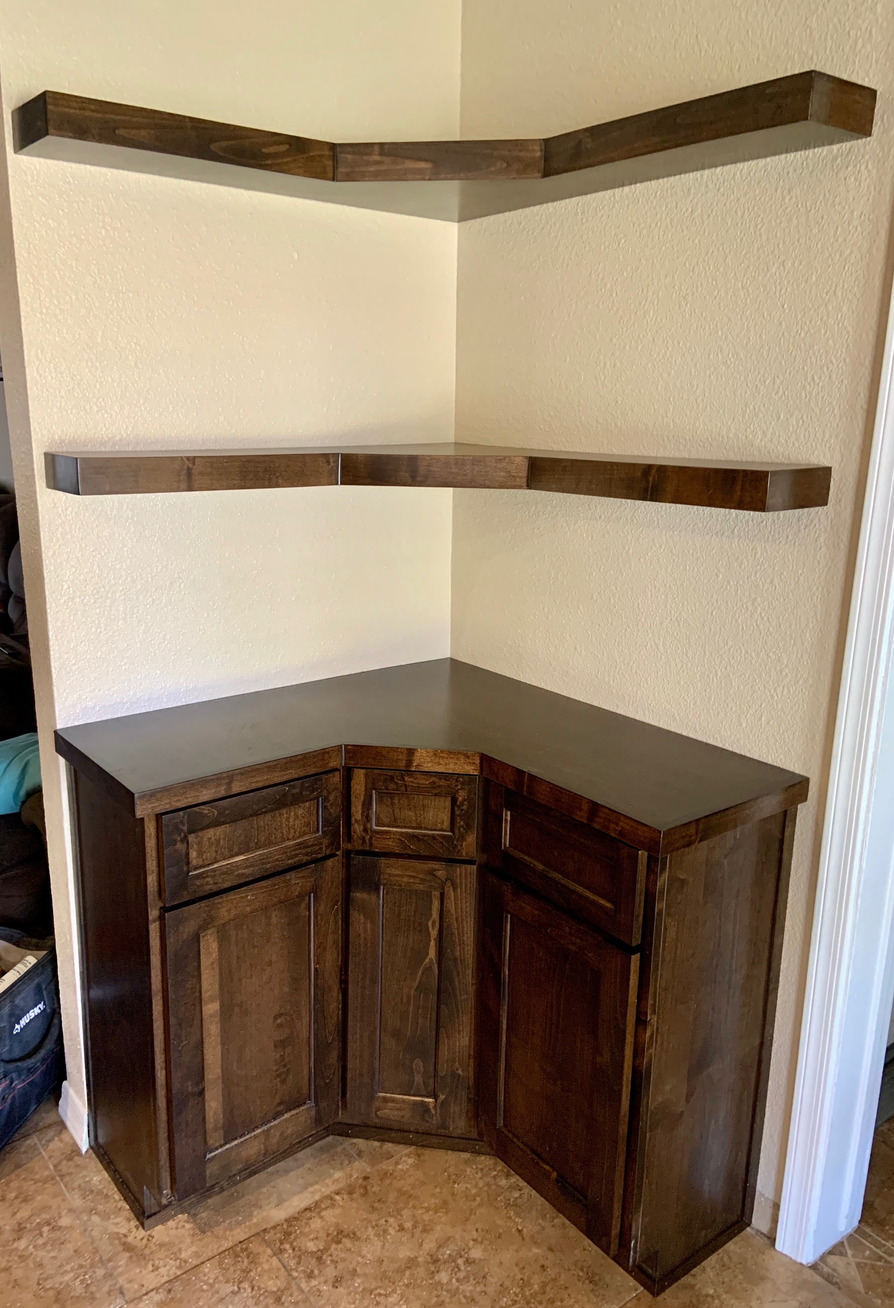
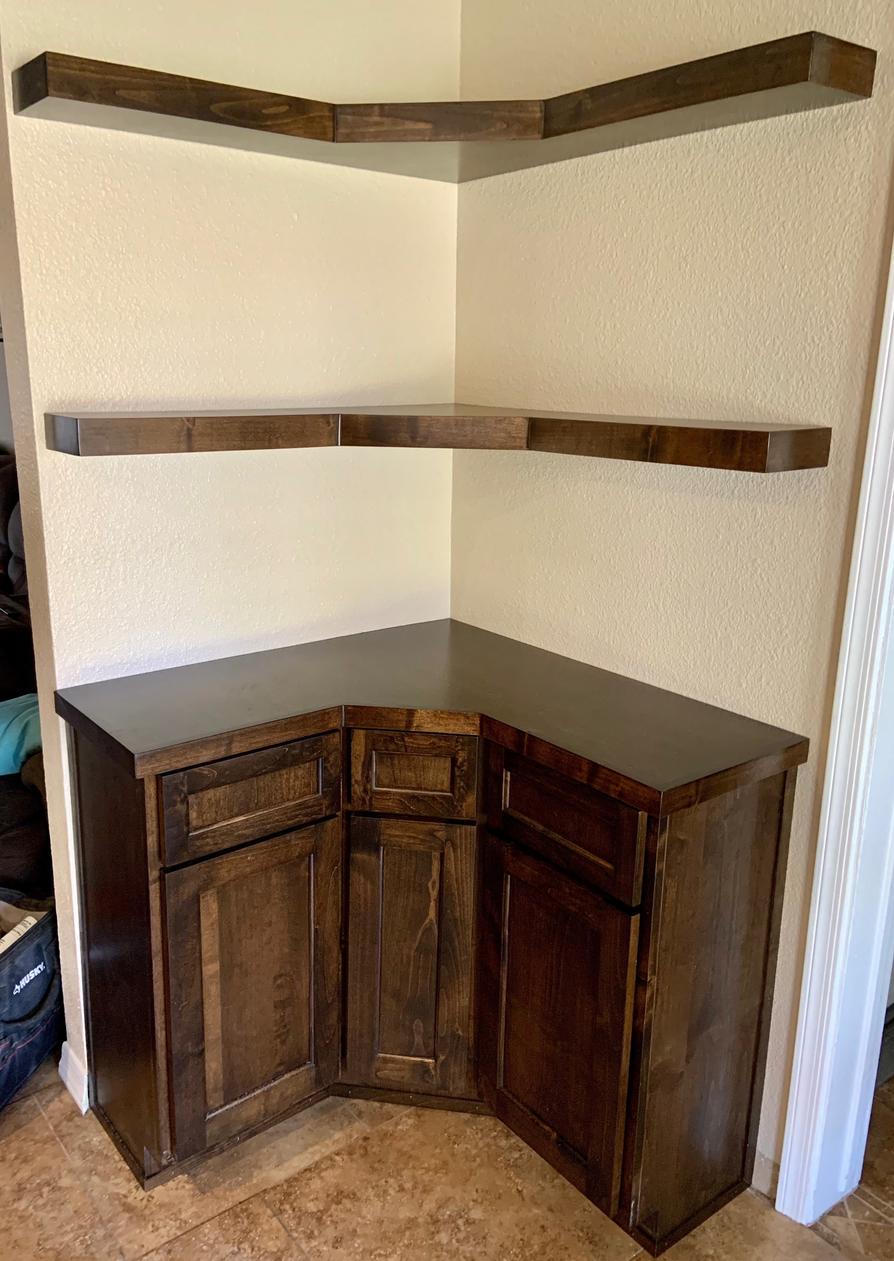
pvww

diff --git a/priv.html b/priv.html
@@ -16,8 +16,12 @@
             height: 400px;
         }
         #gal3 img {
-            width: 300px;
+            width: 275px;
             height: 400px;
+        }
+        #gal4 img {
+            width:400px;
+            height: 250px;
         }
     </style>
 </head>
@@ -40,10 +44,10 @@
                 <img src="img/003 copy.jpg">
             </div>
             <div class="gallery" id="gal2">
-                <img src="img/007 copy.JPG">
+                <img src="img/009 copy.JPG">
             </div>
             <div class="gallery" id="gal2">
-                <img src="img/009 copy.JPG">
+                <img src="img/026.jpeg">
             </div>
             <div class="gallery" id="gal3">
                 <img src="img/011 copy.jpg">
@@ -53,6 +57,12 @@
             </div>
             <div class="gallery" id="gal3">
                 <img src="img/018 copy.jpeg">
+            </div>
+            <div class="gallery" id="gal4">
+                <img src="img/027 copy.jpg">
+            </div>
+            <div class="gallery" id="gal4">
+                <img src="img/023 copy.jpeg">
             </div>
         </div>
     </div>
